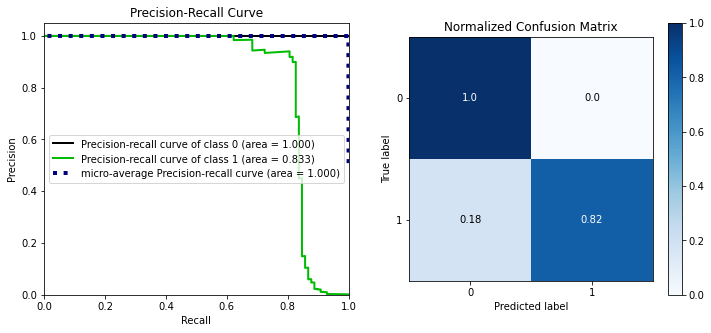
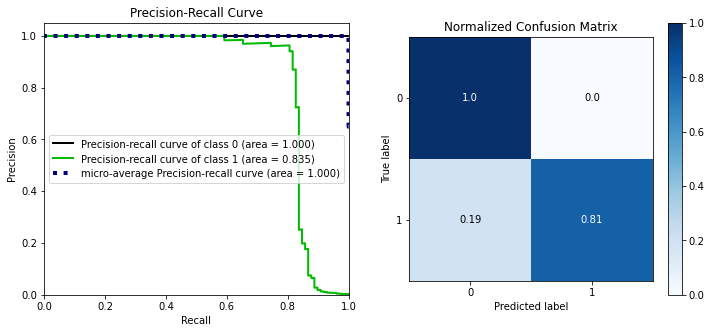
chore: update credit card post metrics results

diff --git a/content/blog/handling-imbalanced-datasets-fraud-detection.md b/content/blog/handling-imbalanced-datasets-fraud-detection.md
@@ -305,10 +305,10 @@ print(f'Baseline AP score: {np.mean(ap_results)}')
 print(f'Baseline ROC AUC score: {np.mean(roc_auc_results)}')
 print(f'Baseline F1 score: {np.mean(f1_results)}')
 
-# Baseline MCC score: 0.09613585506472794
-# Baseline AP score: 0.017043358463682604
-# Baseline ROC AUC score: 0.6006605230375944
-# Baseline F1 score: 0.07692396099084955
+# Baseline MCC score: 0.23349372444054892
+# Baseline AP score: 0.08047800670729233
+# Baseline ROC AUC score: 0.7221486689515286
+# Baseline F1 score: 0.2026884752773078
 ```
 
 Our baseline model does not perform great. We can establish that it still does better than a random guess. Still is essential to mention that its performance can change slightly using different seed values. This code is just for demonstration purposes, and in a production environment, this needs to be tested more thoroughly with various trials to average the results.
@@ -373,14 +373,14 @@ y_probas = score_model(grid['clf'], scaled_X_test, y_test, feature_names)
 ```shell
                    pre       rec       spe        f1       geo       iba       sup
 
-      Legit       1.00      1.00      0.82      1.00      0.90      0.83     56864
-      Fraud       0.91      0.82      1.00      0.86      0.90      0.80        98
+      Legit       1.00      1.00      0.81      1.00      0.90      0.82     56864
+      Fraud       0.95      0.81      1.00      0.87      0.90      0.79        98
 
-avg / total       1.00      1.00      0.82      1.00      0.90      0.83     56962
+avg / total       1.00      1.00      0.81      1.00      0.90      0.82     56962
 
-MCC: 0.8612367949974785
-AP: 0.742431027969758
-ROC AUC: 0.9080929220309395
+MCC: 0.8757493736676086
+AP: 0.7676067300337754
+ROC AUC: 0.9030260528522045
 ```
 
 <img class="mx-auto" src="/images/credit-card/plot_classification_metrics.png" lazy>
@@ -408,7 +408,7 @@ skplt.estimators.plot_learning_curve(grid['clf'], X_train, y_train,
 
 With this dataset, resampling the data didn't produce good results. Using under-sampling, over-sampling or a combination of both didn't improve compared with unchanged class proportions. Perhaps, since most variables were from a PCA transformation, that affected the impact of sampling. Another potential reason is the low number of fraudulent examples caused the under-sampling to produce a tiny dataset, lacking enough data to train a decent model.
 
-In a fraud detection system, two cases are essential for a successful solution: achieving the primary goal of detecting fraudulent transactions (true positive examples) and avoiding targeting genuine transactions as fraudulent (false positives). These two are the most costly to a business when the system does not perform well. This model delivers good results at identifying true positives with an F1 score of 0.86 and does not label any genuine transactions as fraudulent.
+In a fraud detection system, two cases are essential for a successful solution: achieving the primary goal of detecting fraudulent transactions (true positive examples) and avoiding targeting genuine transactions as fraudulent (false positives). These two are the most costly to a business when the system does not perform well. This model delivers good results at identifying true positives with an F1 score of 0.87 and does not label any genuine transactions as fraudulent.
 
 You can check the complete code for this project in [this repository](https://github.com/hmatalonga/data-science-projects/tree/master/notebooks/credit-card).
 
